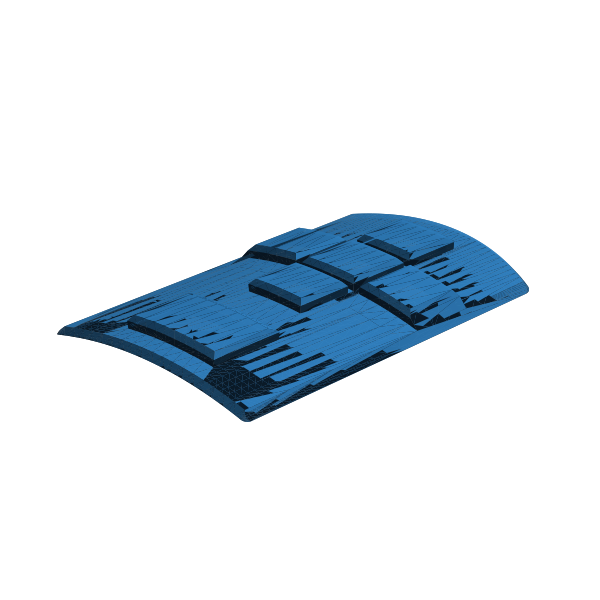
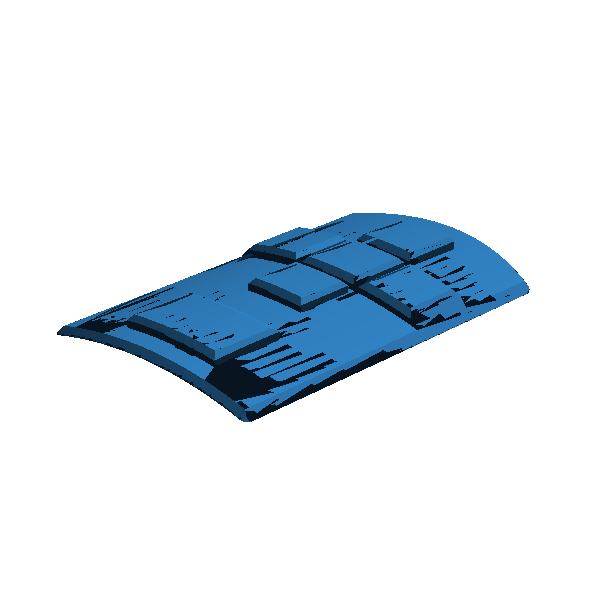
Sync: local edits

Changed region(s): [[0.09, 0.36, 0.87, 0.72]]

diff --git a/js/parts-data.js b/js/parts-data.js
@@ -17,7 +17,7 @@ window.PARTS = [
     device:[],
     photos:["photos/vol-оп-40-1.png","photos/vol-оп-40-2.png"],
     print:{ tech:"FDM" },
-    material:"TPU",
+    material:["TPU"],
     notes:"" },
 
   { id:"vol-оп-41", sku:"ОП-41", department:"Оптика",